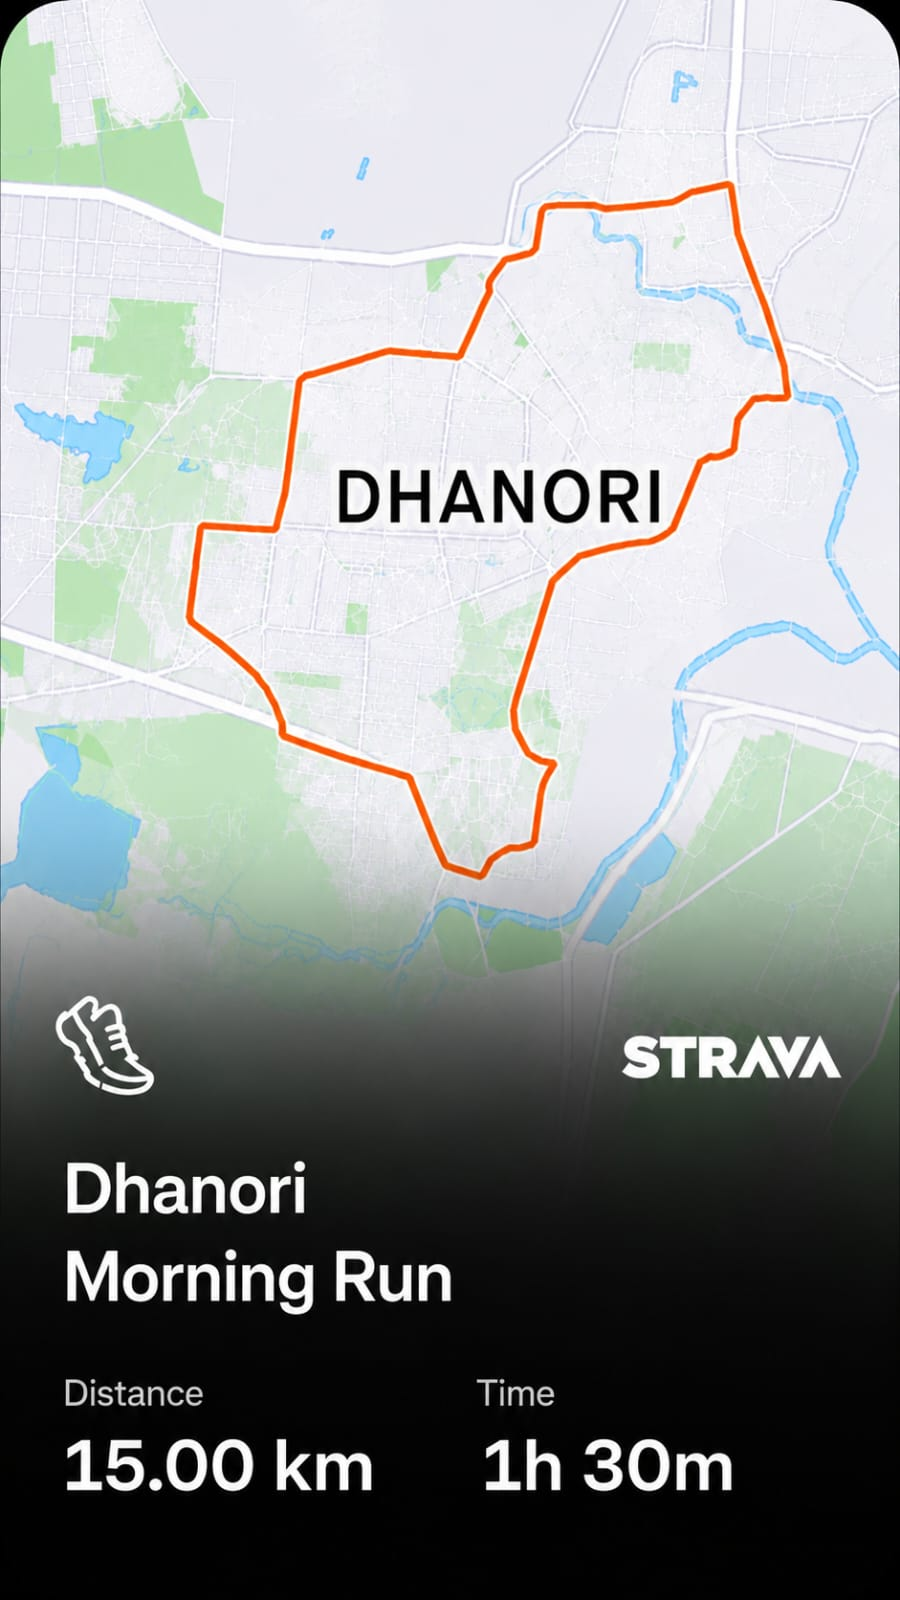
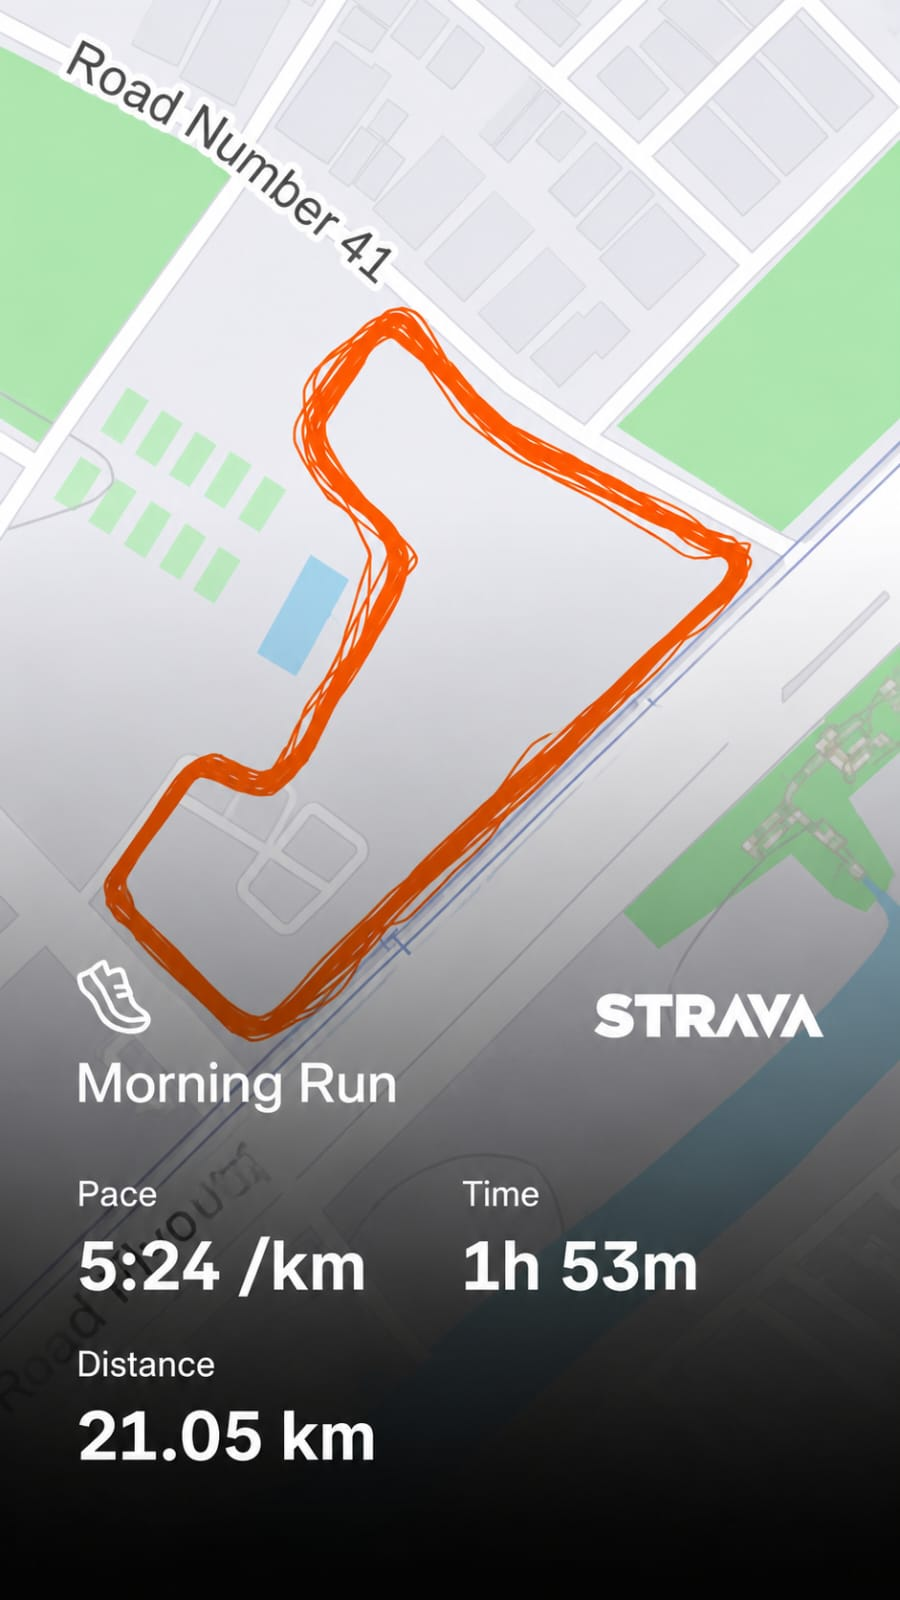
updated acheivements

diff --git a/src/components/AchievementsPage.tsx b/src/components/AchievementsPage.tsx
@@ -1,5 +1,5 @@
 import { motion } from 'framer-motion';
-
+import pandoraImg from '../assets/Pandora.png';
 // Icons
 const ArrowLeft = () => (
   <svg xmlns="http://www.w3.org/2000/svg" fill="none" viewBox="0 0 24 24" strokeWidth={1.5} stroke="currentColor" className="w-4 h-4">
@@ -62,72 +62,73 @@ export default function AchievementsPage({ onBack }: Props) {
             initial={{ opacity: 0, y: 30 }}
             animate={{ opacity: 1, y: 0 }}
             transition={{ duration: 0.6, delay: 0.1 }}
-            className="flex flex-col md:flex-row gap-8 rounded-[32px] overflow-hidden shadow-2xl backdrop-blur-md"
-            style={{ backgroundColor: 'var(--card-bg)', border: '1px solid var(--border-color)' }}
+            className="flex flex-col md:flex-row items-stretch gap-6 md:gap-10 rounded-[32px] p-6 md:p-8 shadow-2xl backdrop-blur-md relative"
+            style={{ backgroundColor: 'var(--card-bg)', border: '1px solid rgba(255,215,0,0.3)', boxShadow: '0 0 20px rgba(255,215,0,0.3)' }}
         >
-            <div className="md:w-3/5 p-2 md:p-4 rounded-t-[32px] md:rounded-l-[32px] md:rounded-tr-none flex items-center justify-center min-h-[300px]" style={{ backgroundColor: 'var(--image-placeholder)' }}>
-                <span className="text-sm font-bold uppercase tracking-widest" style={{ color: 'var(--text-secondary)' }}>Image Placeholder</span>
+            <div className="md:w-1/2 flex items-center justify-center rounded-[24px] overflow-hidden shadow-inner" style={{ backgroundColor: 'var(--image-placeholder)' }}>
+                <img src="/Techathon.jpeg" alt="Trophy" className="w-full h-[300px] md:h-[450px] object-cover hover:scale-105 transition-transform duration-700 ease-in-out" />
             </div>
-            <div className="md:w-2/5 p-8 md:p-12 flex flex-col justify-center">
-                <h2 className="text-4xl md:text-5xl font-bold mb-6" style={{ color: 'var(--text-primary)' }}>Achievement Title</h2>
-                <p className="text-lg leading-relaxed mb-8" style={{ color: 'var(--text-secondary)' }}>
-                    Achievement description goes here. This section is ready for you to add your details later.
+            <div className="md:w-1/2 py-4 md:py-8 flex flex-col justify-center">
+                <h2 className="text-3xl md:text-4xl font-extrabold mb-5 leading-tight flex flex-wrap items-center gap-3" style={{ color: 'var(--text-primary)' }}>Best Solution Award — Techathon 3.0</h2>
+                <p className="text-base md:text-lg leading-relaxed mb-8 opacity-90" style={{ color: 'var(--text-secondary)' }}>
+                    Awarded Best Solution for Given Problem Statement at Techathon 3.0 (2026), organized by Innovation Foundation. Built a scalable tech solution under competition pressure with team Parastec. Received trophy and ₹10,000 cash prize for delivering the most innovative solution.
                 </p>
-                <div className="mt-auto">
-                    <span className="inline-block px-5 py-2.5 rounded-full text-sm font-semibold border" style={{ backgroundColor: 'var(--tag-bg)', color: 'var(--text-primary)', borderColor: 'var(--border-color)' }}>
-                        Date / Info
+                <div className="mt-auto flex">
+                    <span className="inline-flex items-center justify-center px-6 py-2.5 rounded-full text-sm font-bold border shadow-sm tracking-wide" style={{ backgroundColor: 'var(--tag-bg)', color: 'var(--text-primary)', borderColor: 'var(--border-color)' }}>
+                        Techathon 3.0 · 2026 · ₹10,000 Prize
                     </span>
                 </div>
             </div>
         </motion.div>
 
-        {/* 2 Column Grid */}
-        <div className="grid grid-cols-1 md:grid-cols-2 gap-10">
-            {/* Card 2 */}
+
+        {/* Grid for Vertical Cards */}
+        <div className="grid grid-cols-1 md:grid-cols-2 gap-10 w-full">
+            {/* Card 2 - Vertical Card (Pandora) */}
             <motion.div 
                 initial={{ opacity: 0, y: 30 }}
                 animate={{ opacity: 1, y: 0 }}
-                transition={{ duration: 0.6, delay: 0.2 }}
-                className="flex flex-col rounded-[32px] overflow-hidden backdrop-blur-md shadow-xl"
+                transition={{ duration: 0.6, delay: 0.3 }}
+                className="flex flex-col rounded-[32px] shadow-2xl backdrop-blur-md overflow-hidden relative w-full"
                 style={{ backgroundColor: 'var(--card-bg)', border: '1px solid var(--border-color)' }}
             >
-                <div className="p-4 md:p-6 h-[300px] md:h-[400px] flex items-center justify-center flex-col" style={{ backgroundColor: 'var(--image-placeholder)' }}>
-                     <span className="text-sm font-bold uppercase tracking-widest" style={{ color: 'var(--text-secondary)' }}>Image Placeholder</span>
+                <div className="flex items-center justify-center w-full min-h-[300px] md:min-h-[500px]" style={{ backgroundColor: '#1a1a2e' }}>
+                    <img 
+                        src={pandoraImg} 
+                        alt="Pandora Hackathon" 
+                        className="hover:scale-105 transition-transform duration-700 ease-in-out"
+                        style={{
+                            width: '100%',
+                            height: '100%',
+                            objectFit: 'contain'
+                        }}
+                    />
                 </div>
-                <div className="p-6 md:p-8 flex items-center justify-between border-t" style={{ backgroundColor: 'var(--bg-secondary)', borderColor: 'var(--border-color)' }}>
-                    <div>
-                        <h3 className="text-2xl md:text-3xl font-bold mb-2" style={{ color: 'var(--text-primary)' }}>Achievement Title</h3>
-                        <p className="text-sm font-medium" style={{ color: 'var(--text-secondary)' }}>Subtitle / Date</p>
-                    </div>
-                    <div className="w-12 h-12 rounded-full bg-amber-500/20 flex items-center justify-center shrink-0">
-                        <TrophyIcon />
-                    </div>
+                <div style={{ padding: '20px' }} className="flex flex-col justify-center items-center">
+                    <h2 className="text-2xl font-bold text-white mb-3 text-center">Pandora Hackathon — Best Solution</h2>
+                    <p className="text-sm leading-relaxed opacity-90 text-center" style={{ color: 'var(--text-secondary)' }}>
+                        Awarded Certificate of Appreciation for Best Solution in AI For Smart Cities theme at Pandora Hackathon, BSIOTR JSPM <br /> · Team Cyberpunks · Feb 2026
+                    </p>
                 </div>
             </motion.div>
 
-            {/* Card 3 */}
+            {/* Card 3 - Default Placeholder Card */}
             <motion.div 
-                 initial={{ opacity: 0, y: 30 }}
-                 animate={{ opacity: 1, y: 0 }}
-                 transition={{ duration: 0.6, delay: 0.3 }}
-                 className="flex flex-col rounded-[32px] overflow-hidden backdrop-blur-md shadow-xl"
-                 style={{ backgroundColor: 'var(--card-bg)', border: '1px solid var(--border-color)' }}
+                initial={{ opacity: 0, y: 30 }}
+                animate={{ opacity: 1, y: 0 }}
+                transition={{ duration: 0.6, delay: 0.4 }}
+                className="flex flex-col rounded-[32px] shadow-2xl backdrop-blur-md overflow-hidden relative w-full"
+                style={{ backgroundColor: 'var(--card-bg)', border: '1px solid var(--border-color)' }}
             >
-                <div className="p-4 md:p-6 h-[300px] md:h-[400px] flex items-center justify-center flex-col" style={{ backgroundColor: 'var(--image-placeholder)' }}>
-                     <span className="text-sm font-bold uppercase tracking-widest" style={{ color: 'var(--text-secondary)' }}>Image Placeholder</span>
+                <div className="flex items-center justify-center w-full min-h-[300px] md:min-h-[500px]" style={{ backgroundColor: 'var(--image-placeholder)' }}>
+                    <span className="text-sm font-bold uppercase tracking-widest opacity-60" style={{ color: 'var(--text-secondary)' }}>Image Placeholder</span>
                 </div>
-                <div className="p-6 md:p-8 flex items-center justify-between border-t" style={{ backgroundColor: 'var(--bg-secondary)', borderColor: 'var(--border-color)' }}>
-                    <div>
-                        <h3 className="text-2xl md:text-3xl font-bold mb-2" style={{ color: 'var(--text-primary)' }}>Achievement Title</h3>
-                        <p className="text-sm font-medium" style={{ color: 'var(--text-secondary)' }}>Subtitle / Date</p>
-                    </div>
-                    <div className="w-12 h-12 rounded-full bg-emerald-500/20 flex items-center justify-center shrink-0">
-                        <MedalIcon />
-                    </div>
+                <div style={{ padding: '20px' }} className="flex justify-center items-center">
+                    <h2 className="text-2xl md:text-3xl font-bold m-0 text-center" style={{ color: 'var(--text-primary)' }}>Achievement Title</h2>
                 </div>
             </motion.div>
-
         </div>
+
       </div>
     </main>
   );

diff --git a/src/components/AboutBento.tsx b/src/components/AboutBento.tsx
@@ -43,17 +43,17 @@ const HOVER_CARDS = [
   {
     title: 'UNIVERSITY',
     align: 'text-left',
-    desc: 'Pursuing Computer Engineering (3rd Year) at BSIOTR, JSPM. Focused on Data Structures, Software Development, and problem-solving. Continuously building real-world projects using Java, Spring Boot, and modern web technologies.'
+    desc: 'Pursuing Computer Engineering (4th Year) at BSIOTR, JSPM. Passionate about Data Structures, System Design, and Software Development. Constantly shipping real-world projects using Java, Spring Boot, React, and modern web technologies.'
   },
   {
     title: 'COMPETITIONS',
     align: 'text-center',
-    desc: 'Winner of Techathon 3.0, showcasing innovative problem-solving and teamwork. Actively participate in hackathons and coding competitions, building practical and scalable tech solutions.'
+    desc: '2x Hackathon Winner — Techathon 3.0 & Smart India Hackathon. Known for rapid prototyping, innovative problem-solving, and building scalable solutions under pressure. Competitive coder with a team-first mindset.'
   },
   {
     title: 'VISION',
     align: 'text-right',
-    desc: 'My goal is to secure an SDE role at a top product-based company. Currently deepening expertise in system design, DSA, and open source contributions to get there.'
+    desc: 'Targeting SDE roles at top product-based companies. Sharpening skills in System Design, DSA, and full-stack development — with real projects, open source contributions, and zero shortcuts.'
   }
 ];
 
@@ -91,7 +91,7 @@ export default function AboutBento() {
           <h2 className="text-3xl md:text-4xl font-extrabold tracking-widest uppercase leading-tight" style={{ color: 'var(--text-primary)' }}>
             Pawan<br />Bhandari
           </h2>
-          <p className="text-xs tracking-[0.2em] mt-4 uppercase font-semibold" style={{ color: 'var(--text-secondary)' }}>Java Backend Developer</p>
+          <p className="text-xs tracking-[0.2em] mt-4 uppercase font-semibold" style={{ color: 'var(--text-secondary)' }}>Full Stack Developer</p>
         </motion.div>
 
         {/* ── Hover Cards ── */}

diff --git a/src/components/ReplicaHero.tsx b/src/components/ReplicaHero.tsx
@@ -53,7 +53,7 @@ export default function ReplicaHero() {
               animate={{ opacity: 1, y: 0 }}
               transition={{ duration: 0.5, delay: 0.25 }}
             >
-              Java Backend Developer
+              Full Stack Developer
             </motion.p>
 
             {/* Bio */}
@@ -63,8 +63,7 @@ export default function ReplicaHero() {
               animate={{ opacity: 1, y: 0 }}
               transition={{ duration: 0.5, delay: 0.3 }}
             >
-              I build scalable backends, REST APIs, and full-stack apps.
-              Focused on clean architecture and real-world impact.
+              Computer Engineering student with a builder's mindset. I build scalable backends, ship full-stack apps, and train ML models — competing in hackathons and never stopping.
             </motion.p>
 
             {/* CTA Buttons */}

diff --git a/src/components/ChatUI.tsx b/src/components/ChatUI.tsx
@@ -11,7 +11,7 @@ Name: Pawan Bhandari
 Age: 20 Years
 Location: Pune, India
 Education: Computer Engineering at BSIOTR, JSPM
-Role: Java Backend Developer
+Role: Full Stack Developer
 Skills: Java, Spring Boot, React, Node.js, PostgreSQL, MySQL, Docker, REST APIs, Python, JavaScript
 Projects:
 - EcoBounty: Gamified sustainability platform (React, Node.js, Supabase)